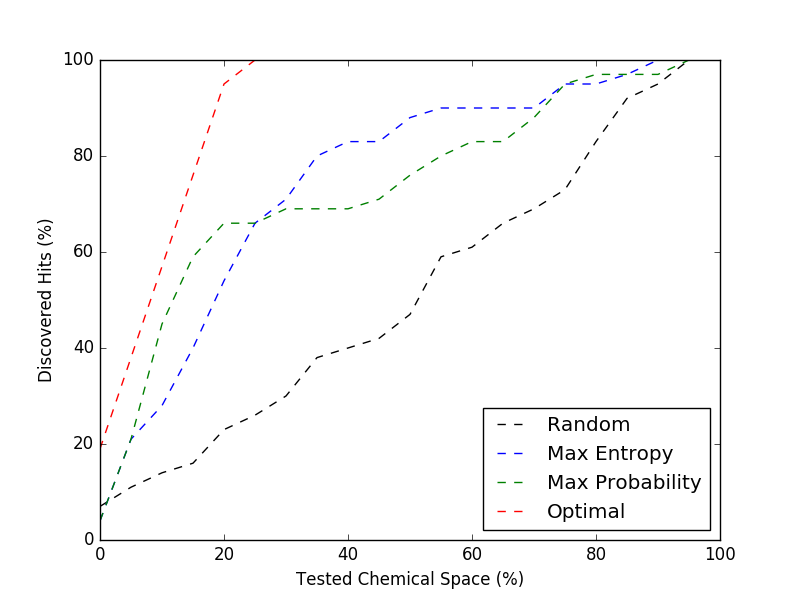
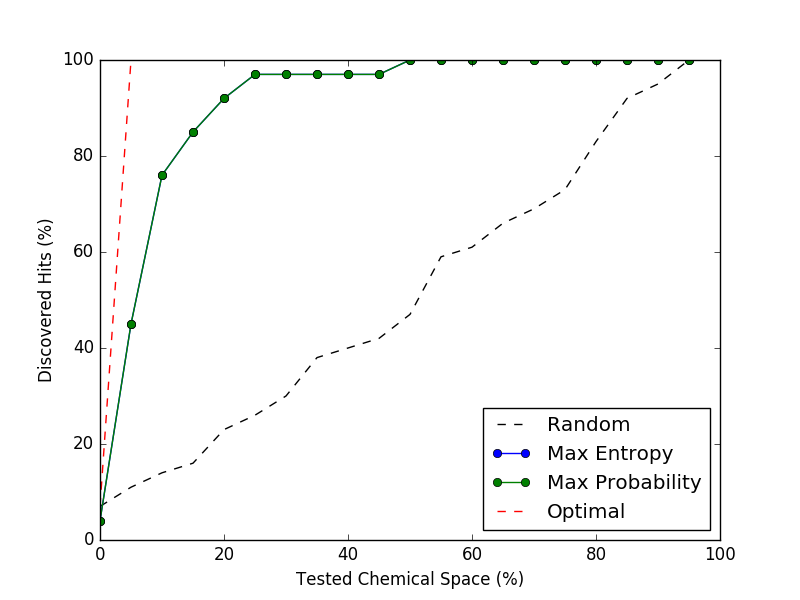
updated the output plot and active learner script- rm param, fixed typos, and code duplication

diff --git a/active_learning_drug_discovery.py b/active_learning_drug_discovery.py
@@ -8,7 +8,7 @@ import pandas as pd
 import matplotlib.pyplot as plt
 
 def get_features_and_responses(data):
-    #returns x, y = features, response
+    #return x, y = features, response
     x = data[data.columns[1:]]
     y = []
     for i in data['I']:
@@ -19,65 +19,51 @@ def get_features_and_responses(data):
     return x, y
 
 def get_model_performance(data, batch_size, strategy, seed):
-    #returns a tuple containing the performance of a *strategy*
+    #return a tuple [%chemical_space, %hit_discovery] for each batch iterations
     print "Loading Features:"
     x, y = get_features_and_responses(data)
-    picks = (batch_size * data.shape[0])/100 #number of picks of small molecules at each iteration
-    result = [] #tuple that stores %discovered hits and %chemical space tested during each iteration
-    percent_discovery = 20 #maximum discovery achieved at each iteration in optimal, max_entropy, and max_prob
-    total_hits = len([item for item in y if item[1] == 1]) #total small molecules hits for a given target
-
     print "Spliting the data:"
-    if strategy.__name__ == "get_optimal_sorted_indices":
-        print "Doing optimal spliting"
-        x_train, x_test, y_train, y_test, indices_train, indices_test = get_optimal_train_test_split(x,y,range(data.shape[0]),picks, total_hits, percent_discovery)
-    else:
-        x_train, x_test, y_train, y_test, indices_train, indices_test = train_test_split(x,y,range(data.shape[0]), test_size=1-(float(batch_size)/100), random_state = seed)
+    x_train, x_test, y_train, y_test, indices_train, indices_test = train_test_split(x,y,range(data.shape[0]), test_size=1-(float(batch_size)/100), random_state = seed)
 
-    print "Start iterations"
-
-    hits = len([item for item in y_train if item[1] == 1]) #variable stores number of hits for each iteraction
+    print "Starting iterations:"
+    picks = (batch_size * data.shape[0])/100 #number of picks of small molecules at each iteration
+    hits = len([item for item in y_train if item[1] == 1]) #hits stores number of hits for each iteraction
+    total_hits = len([item for item in y if item[1] == 1]) #total small molecules hits for a given target
+    result = [] #tuple that stores %discovered hits and %chemical space tested during each iteration
+    itr = 1
     for i in range(0,100/batch_size):
-        print strategy.__name__
-
         indices_train, indices_test, hits = active_learning(x_train, y_train, x_test, y_test, indices_train, indices_test, strategy, picks,seed, total_hits, hits)
 
-        #measure perfornace
+        #measure performance
         percent_chemical_space = i*batch_size
         percent_hits = (hits*100)/total_hits
         result.append([percent_chemical_space,percent_hits])
-        print "Percent chemical space: ", percent_chemical_space, "Percent hits: ", percent_hits, "hits: ", hits
-        print "indices_train: ", len(indices_train), "indices_test: ", len(indices_test)
-        print "------"
+        print "Iterations: ", itr, strategy.__name__, "|Percent chemical space: ", percent_chemical_space, "|Percent hits: ", percent_hits, "|hits: ", hits
+
         #new x_train, y_train, and x_test
         x_train = x.ix[indices_train]
         y_train = [y[item] for item in indices_train]
         x_test = x.ix[indices_test]
         y_test = [y[item] for item in indices_test]
-
+        picks = min(len(y_test), picks)
+        itr += 1
+    print "------"
     return result
 
-
 def active_learning(x_train,y_train,x_test, y_test, indices_train, indices_test, strategy, picks,seed, total_hits, hits):
-    #return the indices of new train and test according to *strategy*
+    #return the indices of new train and test data according to strategy
     if strategy.__name__ == "get_optimal_sorted_indices":
-        percent_discovery = 20
-        indices_picked = get_optimal_sorted_indices(y_test, indices_test,total_hits,percent_discovery)[:picks]
+        indices_picked = get_optimal_sorted_indices(y_test, indices_test)[:picks]
     else:
         df = RandomForestClassifier(n_estimators=12, criterion='gini', bootstrap=True, oob_score=False, n_jobs=4, random_state = seed, verbose=0, class_weight='auto')
         df.fit(x_train,y_train)
         if strategy.__name__ == "get_max_entropy_sorted_indices":
-
-            percent_discovery = 20
             tup = df.predict_proba(x_test)[1]
-            indices_picked = strategy(tup, indices_test, total_hits, percent_discovery)[:picks]
         elif strategy.__name__ == "get_max_prob_sorted_indices":
-            percent_discovery = 40
-            tup = df.predict_proba(x_test)[1]
-            indices_picked = strategy(tup, indices_test, total_hits, percent_discovery)[:picks]
+            tup = df.predict_proba(x_test)[0]
         else:
             tup = df.predict(x_test)
-            indices_picked = strategy(tup, indices_test)[:picks]
+        indices_picked = strategy(tup, indices_test)[:picks]
 
     hits = len([item for item in y_train if item[1] == 1])
     indices_test = [item for item in indices_test if item not in indices_picked]
@@ -85,77 +71,45 @@ def active_learning(x_train,y_train,x_test, y_test, indices_train, indices_test,
     return indices_train, indices_test, hits
 
 def get_random_indices(tuples, indices):
-    #returns indices of test_set with random shuffle
+    #return indices of test_set with random shuffle
     random.seed(0)
     random.shuffle(indices)
     return indices
 
-def get_max_entropy_sorted_indices(tuples, indices, total_hits, percent_discovery):
+def get_max_entropy_sorted_indices(tuples, indices):
     #return indices of test_set according to max entropy - decending
     entropy = []
     for i in tuples:
         entropy.append((i[0] * np.log(i[0])) + (i[1] * np.log(i[1])))
     sorted_index = np.argsort(entropy)
-    #take 20% of total hits
-    to_pick = (percent_discovery*total_hits)/100
-    temp = sorted_index[:to_pick]
-    temp2 = sorted_index[to_pick:][::-1]
-    new_sorted_index = np.concatenate((temp,temp2))
-    return np.array(indices)[new_sorted_index]
+    return np.array(indices)[sorted_index]
 
-def get_max_prob_sorted_indices(tuples, indices, total_hits, percent_discovery):
+def get_max_prob_sorted_indices(tuples, indices):
     #return indices of test_set according to max prob - decending
     prob = []
     for i in tuples:
         prob.append(i[1])
-    sorted_index = np.argsort(prob)[::-1]
-    #take 20% of total hits
-    to_pick = (percent_discovery*total_hits)/100
-    temp = sorted_index[:to_pick]
-    temp2 = sorted_index[to_pick:][::-1]
-    new_sorted_index = np.concatenate((temp,temp2))
-    return np.array(indices)[new_sorted_index]
+    sorted_index = np.argsort(prob)
+    return np.array(indices)[sorted_index]
 
-def get_optimal_sorted_indices(tuples, indices, total_hits, percent_discovery):
+def get_optimal_sorted_indices(tuples, indices):
     #return indices of test_set according to optimal picks
     optimal = []
     for i in tuples:
         optimal.append(i[1])
-
     sorted_index = np.argsort(optimal)[::-1]
-
-    #take 20% of total hits and
-    to_pick = (percent_discovery*total_hits)/100
-    temp = sorted_index[:to_pick]
-    temp2 = sorted_index[to_pick:][::-1]
-    new_sorted_index = np.concatenate((temp,temp2))
-    return np.array(indices)[new_sorted_index]
-
-def get_optimal_train_test_split(x,y,indices, picks, total_hits, percent_discovery):
-    #return x_train, x_test, y_train, y_test, indices_train, indices_test according to optimal split of data
-    indices = get_optimal_sorted_indices (y,indices, total_hits, percent_discovery)
-
-    indices_train = indices[:picks].tolist()
-    indices_test = indices[picks:].tolist()
-
-    x_train = x.ix[indices_train]
-    x_test = x.ix[indices_test]
-    y_train = [y[item] for item in indices_train]
-    y_test = [y[item] for item in indices_test]
-
-    return x_train, x_test, y_train, y_test, indices_train, indices_test
-
+    return np.array(indices)[sorted_index]
 
 def plot_model_comparision(random_tup1, max_entropy_tup2, max_prob_tup3, optimal_tup4, outfile):
-    #output a png file displaying the performance of different strategy
+    #output a png file displaying the performance of different strategies
     random_res1 = zip(*random_tup1)
     max_entropy_res2 = zip(*max_entropy_tup2)
     max_prob_res3 = zip(*max_prob_tup3)
     optimal_res4 = zip(*optimal_tup4)
     #plot lines
     plt.plot(random_res1[0],random_res1[1], "k--", label = "Random")
-    plt.plot(max_entropy_res2[0],max_entropy_res2[1],'b--', label = "Max Entropy")
-    plt.plot(max_prob_res3[0], max_prob_res3[1],'g--', label = "Max Probability")
+    plt.plot(max_entropy_res2[0],max_entropy_res2[1],'bo-', label = "Max Entropy")
+    plt.plot(max_prob_res3[0], max_prob_res3[1],'go-', label = "Max Probability")
     plt.plot(optimal_res4[0],optimal_res4[1],'r--', label = "Optimal")
     #add legend
     legend = plt.legend(loc="lower right")
@@ -171,8 +125,6 @@ print "Loading pickle data object"
 #data = pd.read_csv(sys.argv[1])
 #data.to_pickle("drug_discovery_data")
 data = pd.read_pickle(sys.argv[1])
-
-
 random_tup1 = get_model_performance(data, 5, get_random_indices, 0)
 max_entropy_tup2 = get_model_performance(data, 5, get_max_entropy_sorted_indices, 1)
 max_prob_tup3 = get_model_performance(data, 5, get_max_prob_sorted_indices, 1)

diff --git a/active.py b/active.py
@@ -1,0 +1,109 @@
+import pylab
+import sklearn
+from sklearn import svm
+from sklearn.ensemble import RandomForestClassifier
+import pandas as pd
+from sklearn.cross_validation import cross_val_score
+import numpy as np
+from sklearn.cross_validation import StratifiedKFold
+from random import shuffle
+import gzip
+import sys
+# ### Ingest data:
+
+# #### Round 1 data
+#data = pd.read_csv(gzip.open('thrombin.gz'),',',header=None)
+data = pd.read_pickle(sys.argv[1])
+X = data[range(1,len(data.columns))]
+Y = data['I']
+
+mix_rates = np.array([2./3, 1./6, 1./6])
+df = RandomForestClassifier(n_estimators=12, criterion='gini',
+                            bootstrap=True, oob_score=False, n_jobs=4,
+                            random_state=0, verbose=0, class_weight='auto')
+def entropy(p):
+    return sum([-p_val*np.log2(p_val+1e-10) for p_val in p])
+
+def max_prob(p):
+    return p[0]
+
+def select_preds(all_preds, mix_rates, n_preds):
+    n_picks = [round(p*n_preds) for p in mix_rates]
+    if n_preds - sum(n_picks) != 0:
+        n_picks[np.argmax(mix_rates)] += n_preds - sum(n_picks)
+    preds = set()
+    for i,n_curr in enumerate(n_picks):
+        len_init = len(preds); j = 0;
+        while len(preds) < (len_init + n_curr):
+            preds.add(all_preds[i][j]); j+=1
+    return preds
+
+def test_active_learner(argtuple):
+    X,Y,strategy_list,mix_rates,batches = argtuple
+    if mix_rates is None:
+        mix_rates = np.array([1./len(strategy_list) for n in range(len(strategy_list))])
+    elif sum(mix_rates) != 1:
+        mix_rates = np.array(mix_rates)/float(sum(mix_rates))
+    skf = StratifiedKFold(Y,n_folds=batches,shuffle=True,random_state=0)
+    for test_inds, train_inds in skf: break
+    train_inds = set(train_inds); test_inds = set(test_inds);
+    curr_hits = [sum(Y.loc[train_inds]=='A')]; mcc = [0]; auc = [0]
+    iter_cnt = 0; strategy_ind = 0;
+    while len(test_inds) > 0:
+        train_X = X.loc[train_inds]; train_Y = Y.loc[train_inds];
+        test_X  = X.loc[test_inds] ; test_Y  = Y.loc[test_inds];
+        print 'Iter:',iter_cnt, '#TrainSet:', len(train_inds), '#TestSet:', len(test_inds), '#Hits:', curr_hits[-1]
+        print train_X.isnull().sum().sum()
+        df.fit(train_X.astype(int).values, train_Y)
+        fpr, tpr, thresholds = sklearn.metrics.roc_curve(Y, df.predict_proba(X)[:,0], pos_label='A')
+        auc.append(sklearn.metrics.auc(fpr,tpr))
+        mcc.append(sklearn.metrics.matthews_corrcoef(df.predict(test_X),test_Y))
+        n_preds = min(len(test_Y), int(round(len(Y)*(1./batches))))
+        all_preds = []
+        probs = df.predict_proba(test_X)
+        for strategy in strategy_list:
+            scores = [strategy(p) for p in probs]
+            sort_idx = np.argsort(scores)
+            data_idx = test_X.index[sort_idx]
+            all_preds.append(data_idx[-n_preds:])
+        preds = select_preds(all_preds, mix_rates, n_preds)
+        train_inds = train_inds.union(set(preds))
+        test_inds.difference_update(preds)
+        curr_hits.append(sum(Y.loc[train_inds]=='A'))
+        iter_cnt+=1
+    return curr_hits, mcc, auc
+
+def get_baseline(Y,batches=20):
+    num_hits = sum(Y=='A')
+    hits_optimal = np.array([1]*num_hits + [0]*(len(Y)-num_hits))
+    hits_random = hits_optimal.copy()
+    shuffle(hits_random)
+    curr_hits_optimal = []; curr_hits_random = [];
+    skf = sklearn.cross_validation.KFold(len(Y),shuffle=False,n_folds=batches)
+    for tr,ts in skf:
+        curr_hits_optimal.append(sum(hits_optimal[ts]))
+        curr_hits_random.append(sum(hits_random[ts]))
+    curr_hits_optimal = np.cumsum(curr_hits_optimal)
+    curr_hits_random = np.cumsum(curr_hits_random)
+    return curr_hits_optimal, curr_hits_random, num_hits
+
+curr_hits_optimal, curr_hits_random, num_hits = get_baseline(Y)
+curr_hits_entropy, mcc_entropy, auc_entropy = test_active_learner((X,Y,[entropy],[1],20))
+curr_hits_maxprob, mcc_maxprob, auc_maxprob = test_active_learner((X,Y,[max_prob],[1],20))
+curr_hits_hybrid, mcc_hybrid, auc_hybrid = test_active_learner((X,Y,[entropy,max_prob],[0.5,0.5],20))
+pylab.figure(figsize=(11,8))
+pylab.plot(np.array(range(len(curr_hits_entropy)))*100./float(len(curr_hits_entropy)-1),
+           np.array(curr_hits_entropy)/float(num_hits)*100, 'ko-',label='Max Entropy')
+pylab.plot(np.array(range(len(curr_hits_maxprob)))*100./float(len(curr_hits_maxprob)-1),
+           np.array(curr_hits_maxprob)/float(num_hits)*100, 'bo-',label='Max Probability')
+pylab.plot(np.array(range(len(curr_hits_optimal)))*100./float(len(curr_hits_optimal)-1),
+           np.array(curr_hits_optimal)/float(num_hits)*100, 'g--',label='Optimal')
+pylab.plot(np.array(range(len(curr_hits_random)))*100./float(len(curr_hits_random)-1),
+           np.array(curr_hits_random) /float(num_hits)*100, 'y--',label='Random')
+pylab.plot(np.array(range(len(curr_hits_hybrid)))*100./float(len(curr_hits_hybrid)-1),
+           np.array(curr_hits_hybrid) /float(num_hits)*100, 'r--',label='Hybrid')
+pylab.xlabel('Tested Chemical Space (%)')
+pylab.ylabel('Discovered Hits (%)')
+pylab.legend(loc=0)
+pylab.rc('font', size=20)
+pylab.savefig('active_hits.png',dpi=100)
